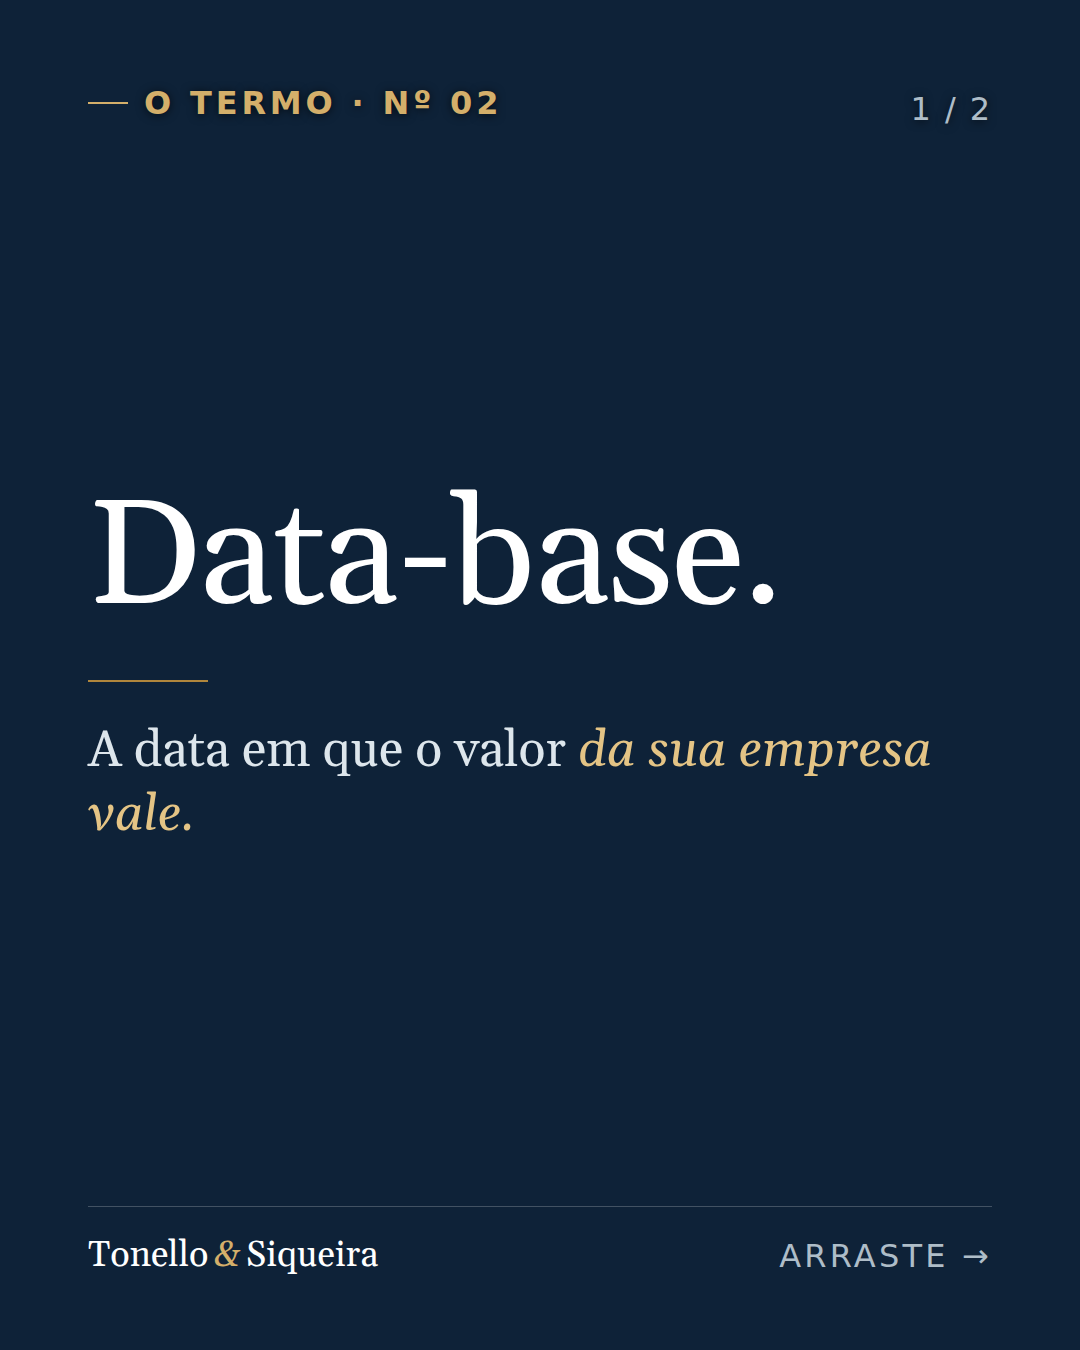
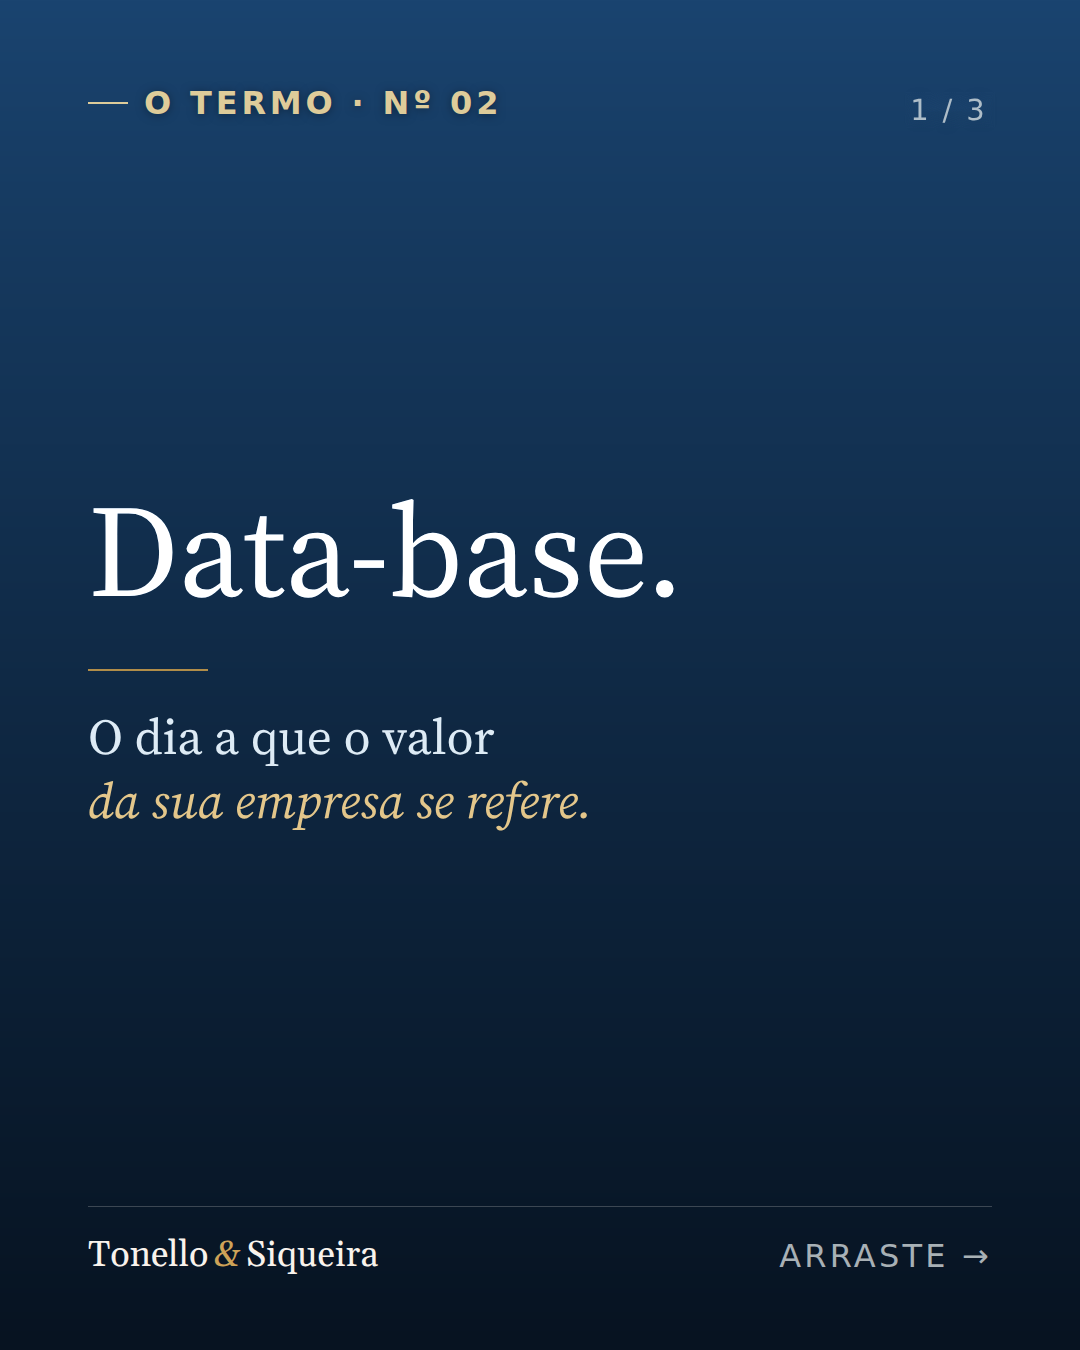
termo

diff --git a/README.md b/README.md
@@ -92,24 +92,24 @@ Um post por semana, toda quinta-feira às 10:00 (decisão de 13/11/2026, substit
 | 19 | qua 09/12 | Data comemorativa | Dia contra a Corrupção | `19-data-dia-contra-corrupcao` |
 | 20 | qui 18/02 | Regra da casa | R2 — três abordagens | `20-regra-tres-abordagens` |
 | 21 | qui 25/02 | Variável | Livro — Abel Ferreira | `21-variavel-livro-abel-ferreira` |
-| 22 | qui 04/03 | O termo | T3 — dívida líquida | `22-termo-divida-liquida` |
+| 22 | qui 04/03 | O termo | T3 — múltiplo | `22-termo-multiplo` |
 | 23 | qui 11/03 | Antes de responder | A3 — balanços | `23-antes-de-responder-balancos` |
 | 24 | qua 23/12 | Data comemorativa | Boas festas | `24-data-boas-festas` |
 | 25 | qui 18/03 | Pergunta e resposta | P3 — o laudo garante? | `25-pergunta-laudo-garante` |
 | 26 | qui 25/03 | Regra da casa | R3 — segundo caminho | `26-regra-segundo-caminho` |
 | 27 | qui 01/04 | Variável | Livro — Elon Musk | `27-variavel-livro-elon-musk` |
-| 28 | qui 08/04 | O termo | T4 — capital de giro | `28-termo-capital-de-giro` |
+| 28 | qui 08/04 | O termo | T4 — EBITDA | `28-termo-ebitda` |
 | 29 | qui 15/04 | Antes de responder | A4 — investidor | `29-antes-de-responder-investidor` |
 | 30 | qui 22/04 | Pergunta e resposta | P4 — funcionários | `30-pergunta-funcionarios` |
 | 31 | qui 29/04 | Regra da casa | R4 — preço piso | `31-regra-preco-piso` |
 | 32 | qui 06/05 | Variável | vaga em aberto (vídeo ou livro) | `32-variavel-vazio` |
-| 33 | qui 13/05 | O termo | T5 — retenção | `33-termo-retencao` |
+| 33 | qui 13/05 | O termo | T5 — valor da empresa | `33-termo-valor-da-empresa` |
 | 34 | qui 20/05 | Antes de responder | A5 — clientes | `34-antes-de-responder-clientes` |
 | 35 | qui 27/05 (Corpus Christi — a decidir) | Pergunta e resposta | P5 — depende de mim? | `35-pergunta-depende-de-mim` |
 | 36 | qui 03/06 | Regra da casa | R5 — sinergias | `36-regra-sinergias` |
 | 37 | qui 10/06 | Variável | vaga em aberto (vídeo ou livro) | `37-variavel-vazio` |
 
-Séries: **O termo** (azul + branca, sem foto) · **Antes de responder** (capa com foto do sócio + branca) · **Pergunta e resposta** (azul + branca, sem foto) · **Regra da casa** (foto em coluna + branca) · **Variável** (tela única azul: livro, notícia ou vídeo; vídeos podem ocupar as vagas da série). Pastas de série: `post-01.png`, `post-02.png`, `legenda.txt`; livro e data comemorativa: `post-01.png`, `legenda.txt`, `CREDITOS.txt`.
+Séries: **O termo** (3 telas: azul em degradê + duas brancas, sem foto; o T4 e o T5 têm uma tela cinza a mais com a folha contábil — demonstração do resultado e ponte do valor da empresa ao valor do sócio) · **Antes de responder** (capa com foto do sócio + branca) · **Pergunta e resposta** (azul + branca, sem foto) · **Regra da casa** (foto em coluna + branca) · **Variável** (tela única azul: livro, notícia ou vídeo; vídeos podem ocupar as vagas da série). Pastas de série: `post-01.png`, `post-02.png`, `legenda.txt`; livro e data comemorativa: `post-01.png`, `legenda.txt`, `CREDITOS.txt`.
 
 ## Relatórios mensais do Instagram
 
